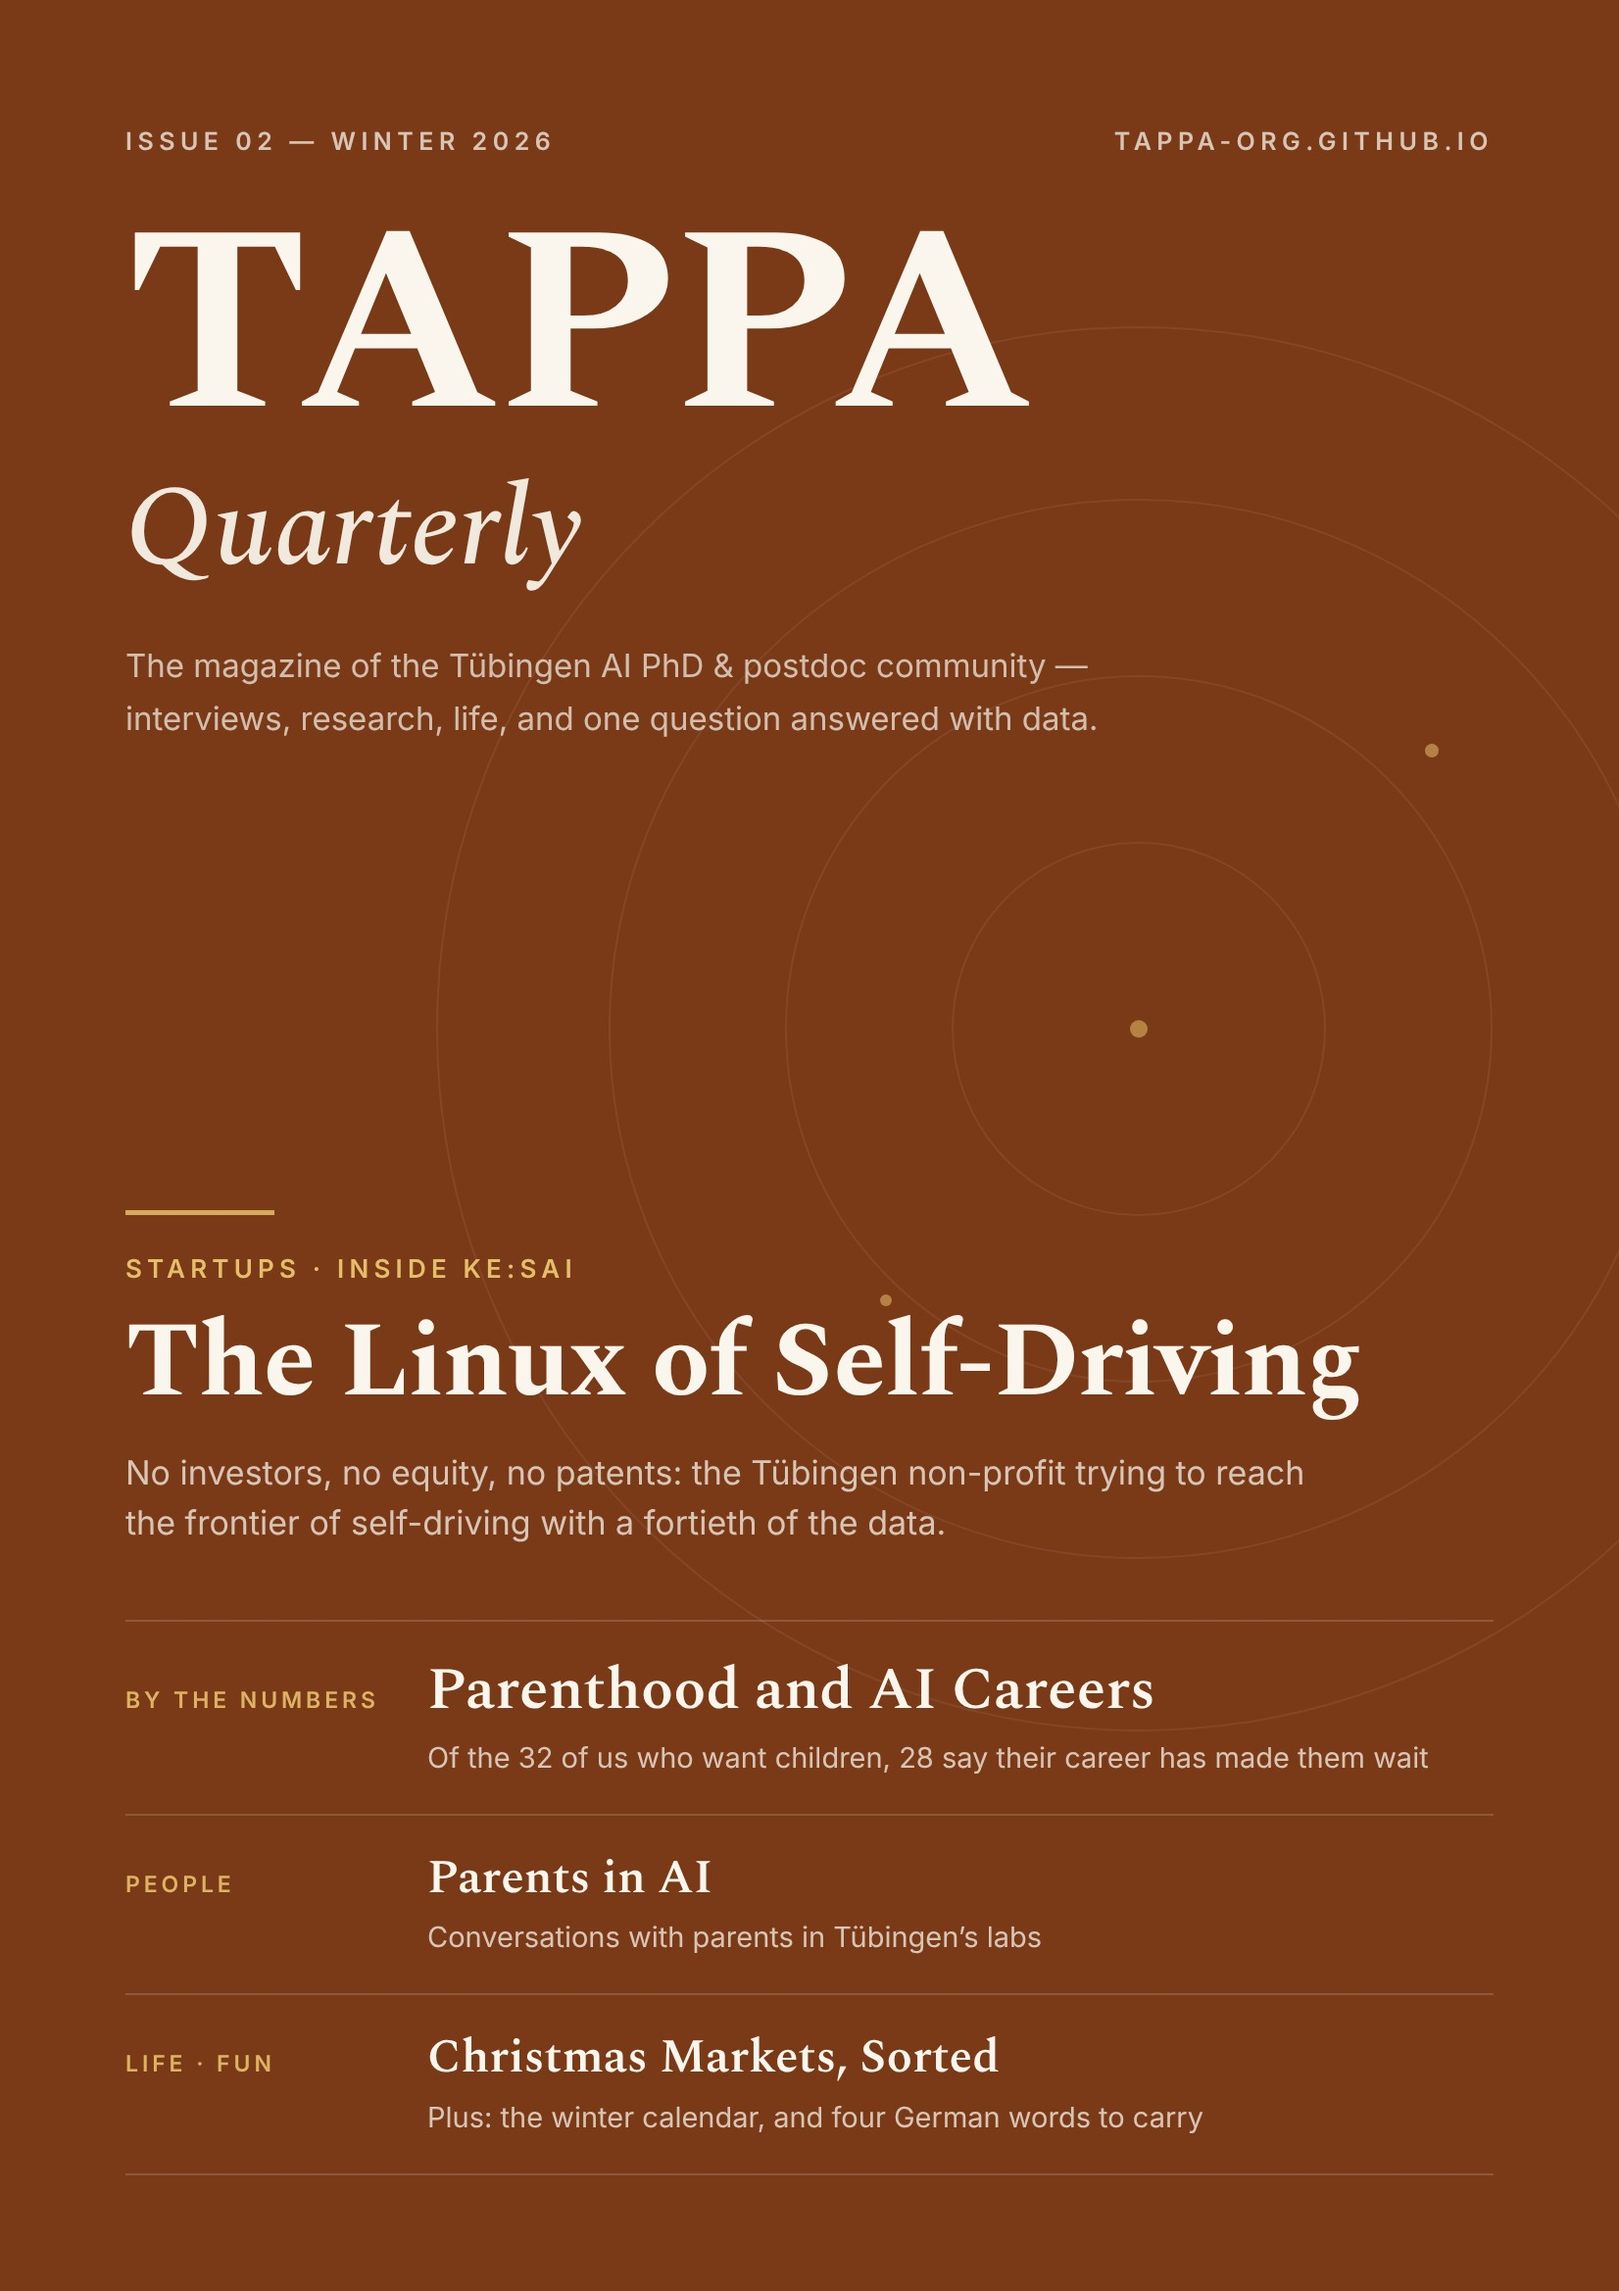
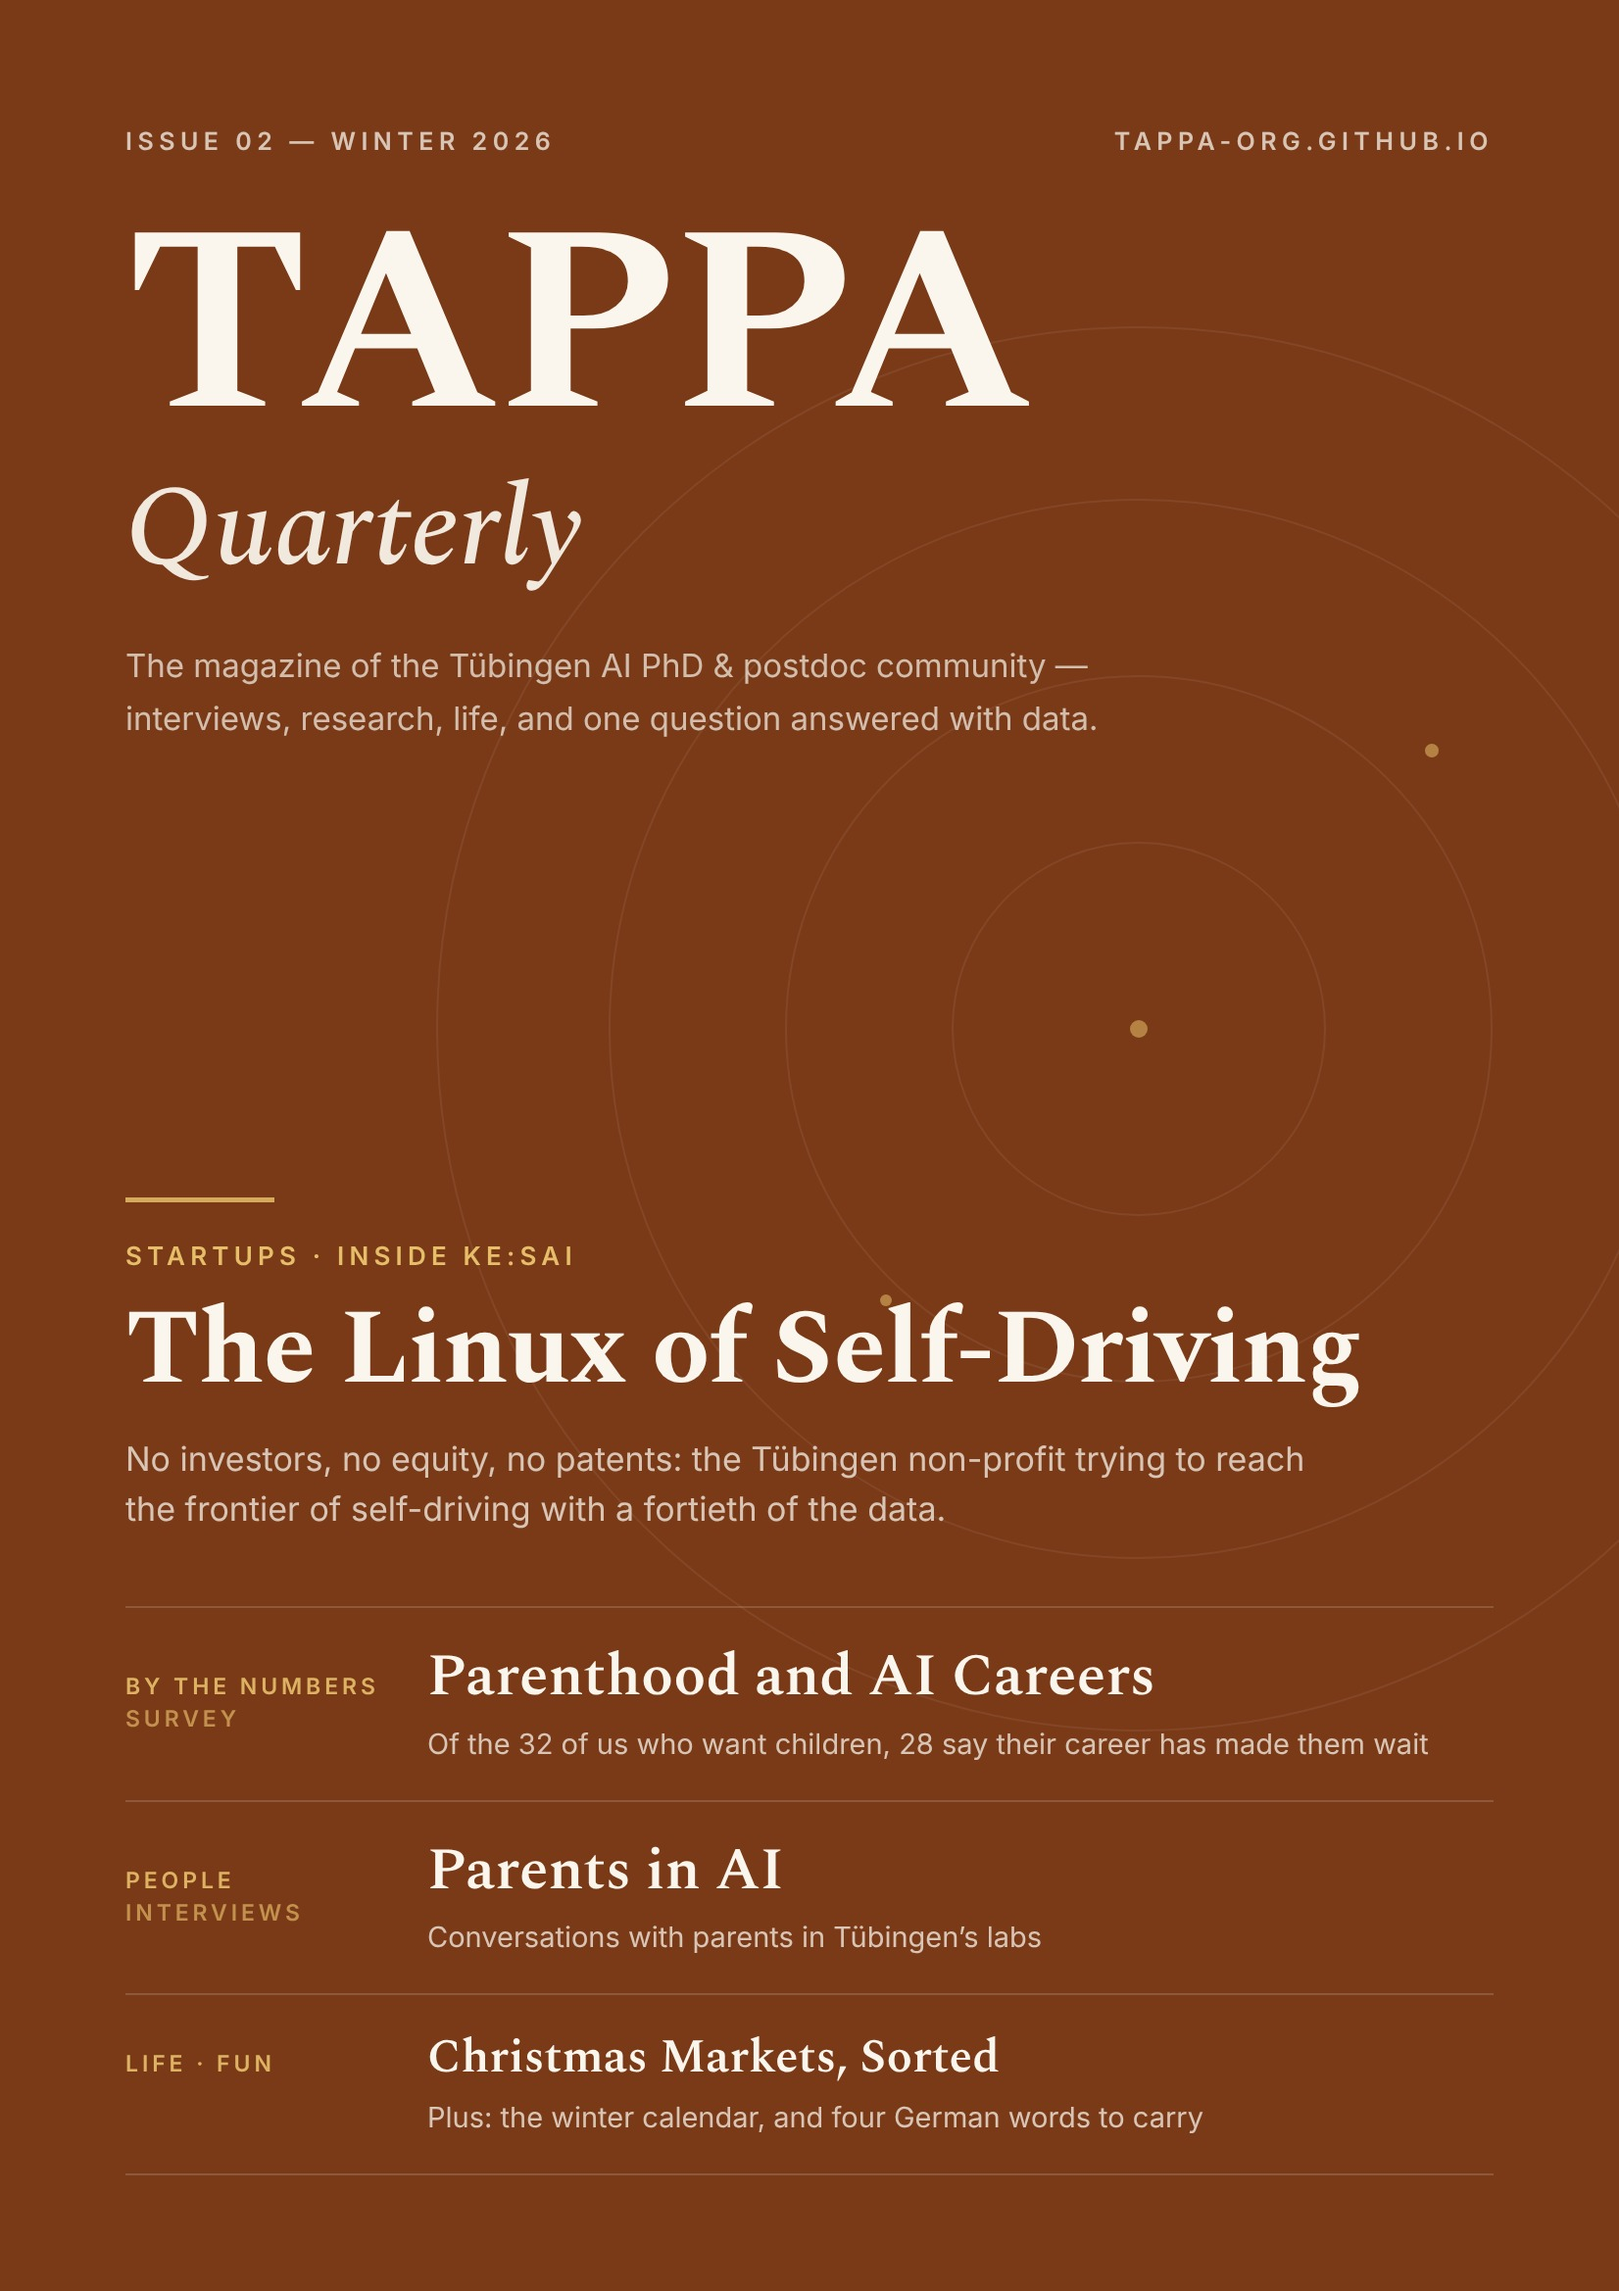
Issue 2: cover gives Parents in AI the same weight as the survey
On the web cover and cover.jpg (re-rendered), the People teaser now uses
the large feature style with a "Read the interviews" link, and the two
teasers are labelled "By the Numbers · Survey" and "People · Interviews".

Claude-Session: https://claude.ai/code/session_01HxXwHi4Ap4HnPyw3ZXD4Lj

diff --git a/magazine/issue-2/cover.html b/magazine/issue-2/cover.html
@@ -135,6 +135,7 @@ html, body {
   color: rgba(250, 246, 238, 0.74);
 }
 .teaser-major h2 { font-size: 60px; }
+.teaser .dept-kind { display: block; opacity: 0.72; }
 </style>
 </head>
 <body>
@@ -174,14 +175,14 @@ html, body {
 
     <div class="teasers">
       <div class="teaser teaser-major">
-        <div class="dept">By the Numbers</div>
+        <div class="dept">By the Numbers<span class="dept-kind">Survey</span></div>
         <div>
           <h2>Parenthood and AI Careers</h2>
           <p>Of the 32 of us who want children, 28 say their career has made them wait</p>
         </div>
       </div>
-      <div class="teaser">
-        <div class="dept">People</div>
+      <div class="teaser teaser-major">
+        <div class="dept">People<span class="dept-kind">Interviews</span></div>
         <div>
           <h2>Parents in AI</h2>
           <p>Conversations with parents in T&uuml;bingen&rsquo;s labs</p>

diff --git a/magazine/issue-2/index.html b/magazine/issue-2/index.html
@@ -88,11 +88,12 @@
               <span class="teaser-more">Read the survey →</span>
             </span>
           </a>
-          <a class="teaser" href="#people">
+          <a class="teaser teaser-feature" href="#people">
             <span>
-              <span class="teaser-label">People</span>
+              <span class="teaser-label">People · Interviews</span>
               <span class="teaser-title">Parents in AI</span>
               <span class="teaser-blurb">Conversations with parents in Tübingen's labs</span>
+              <span class="teaser-more">Read the interviews →</span>
             </span>
           </a>
           <a class="teaser" href="#life">
